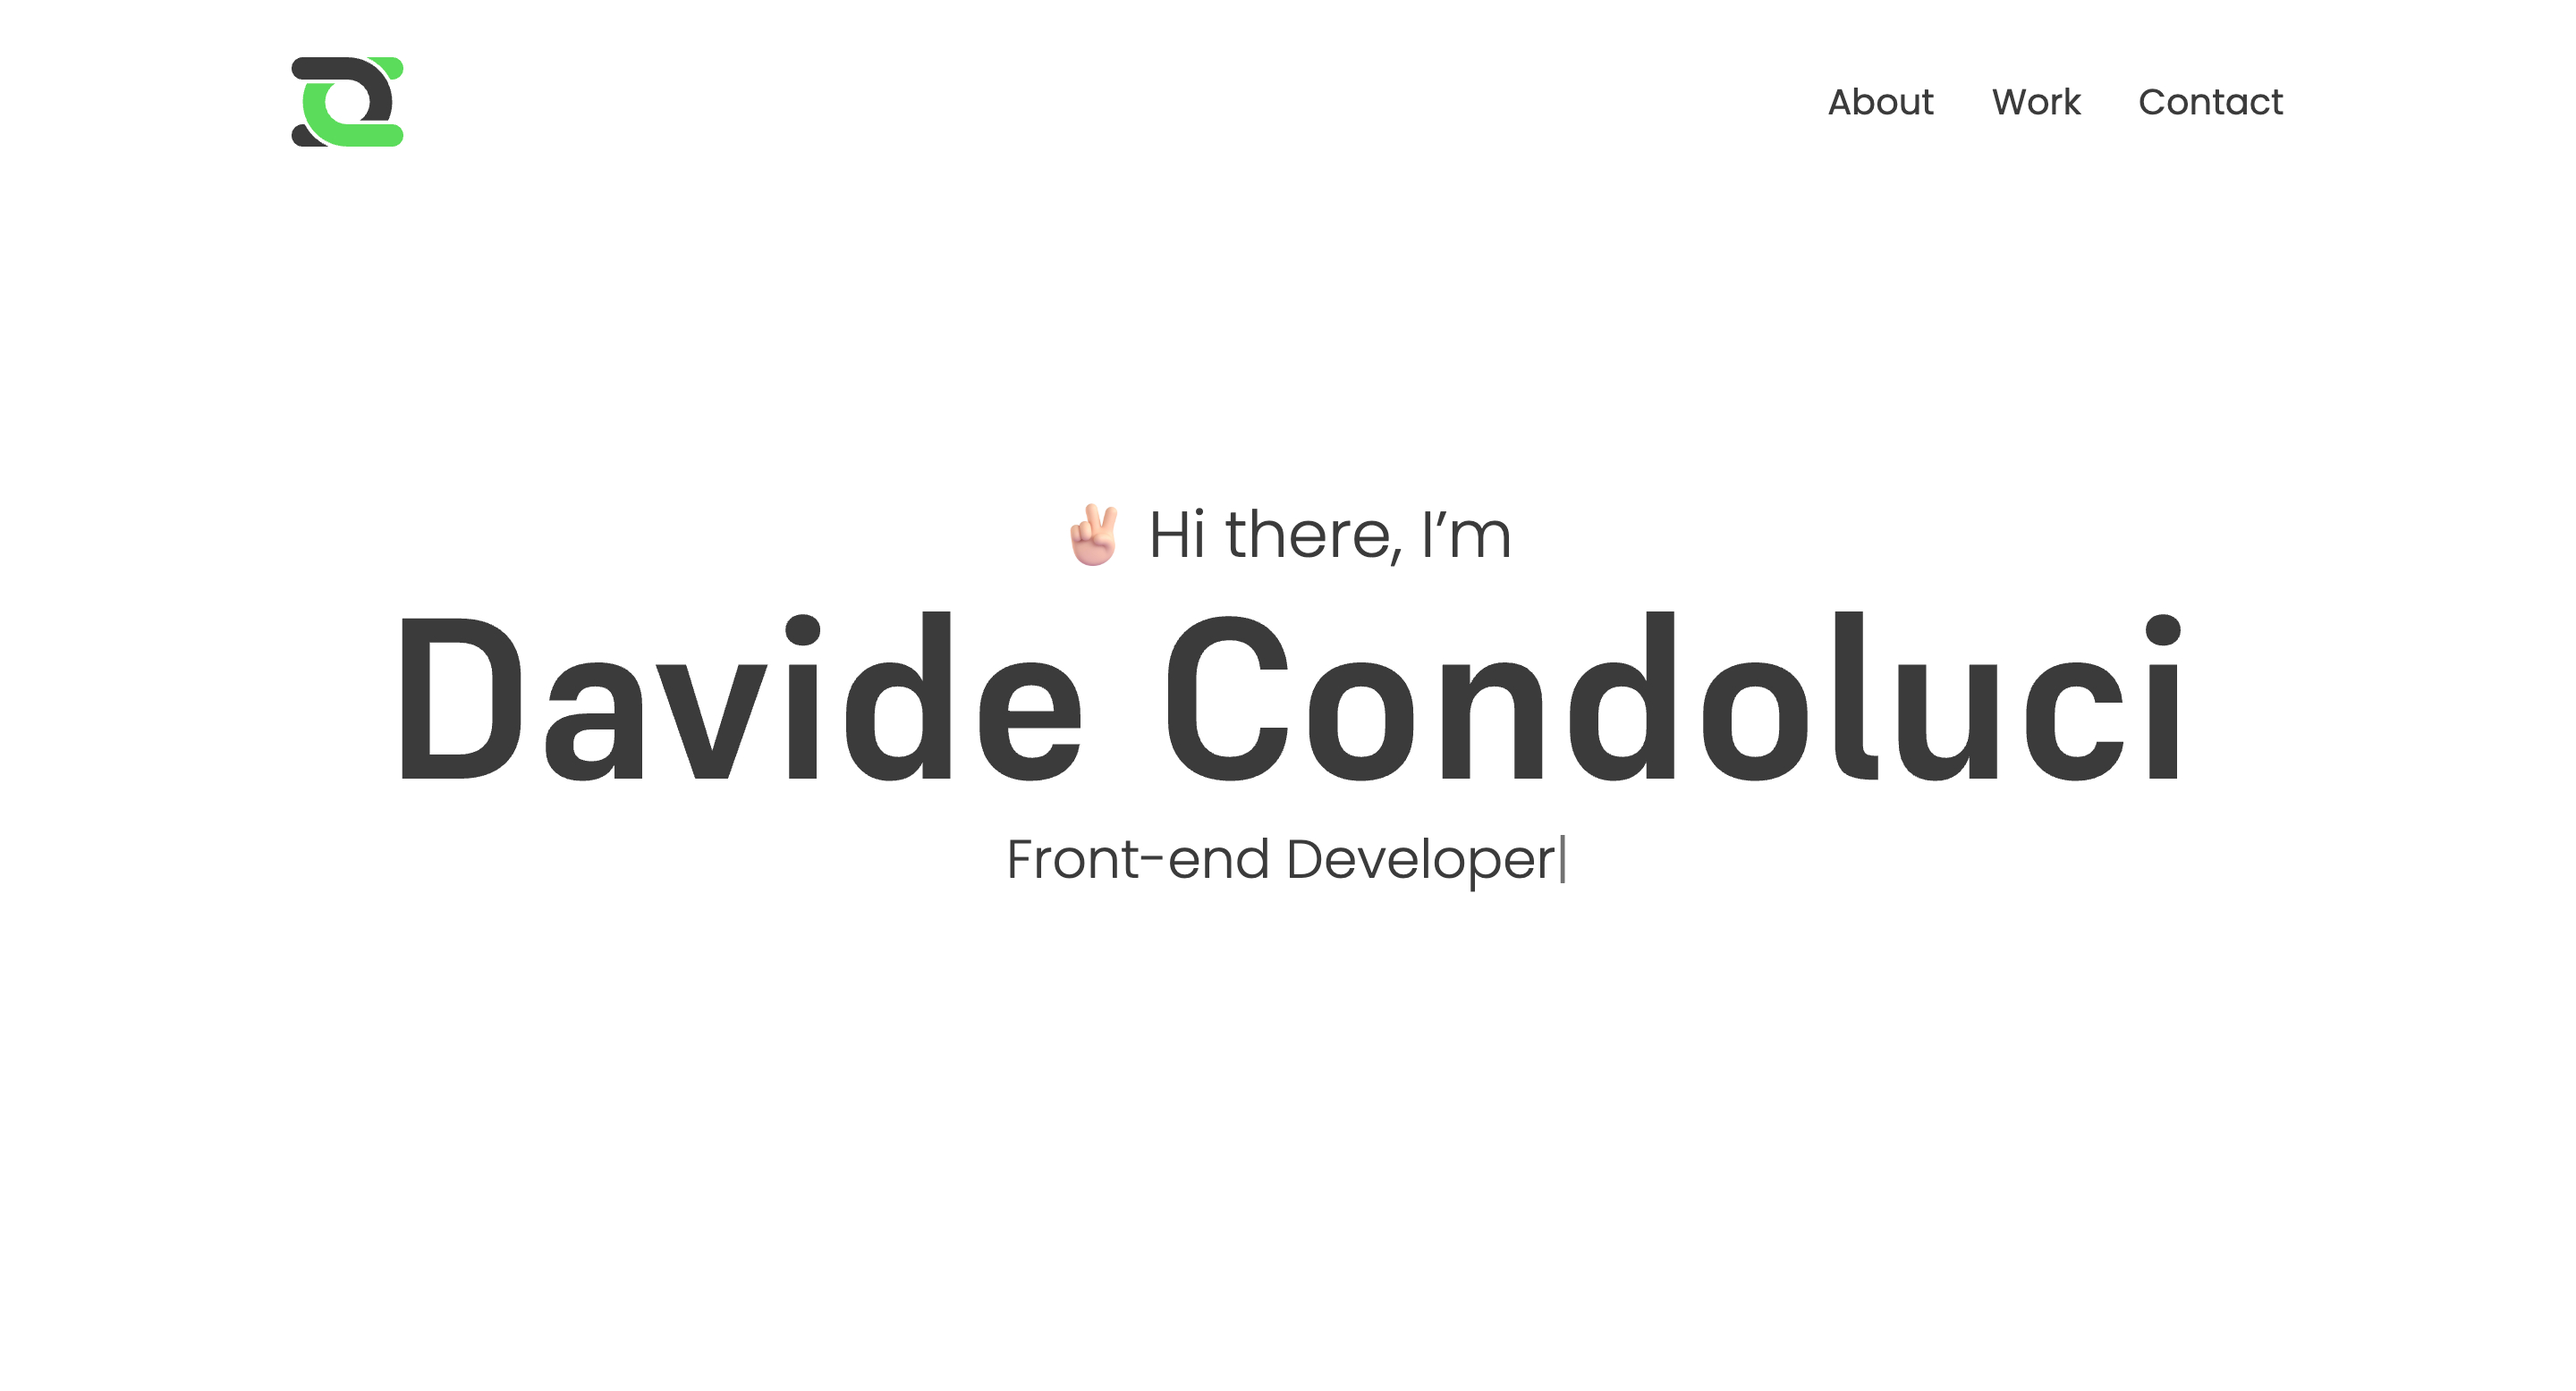
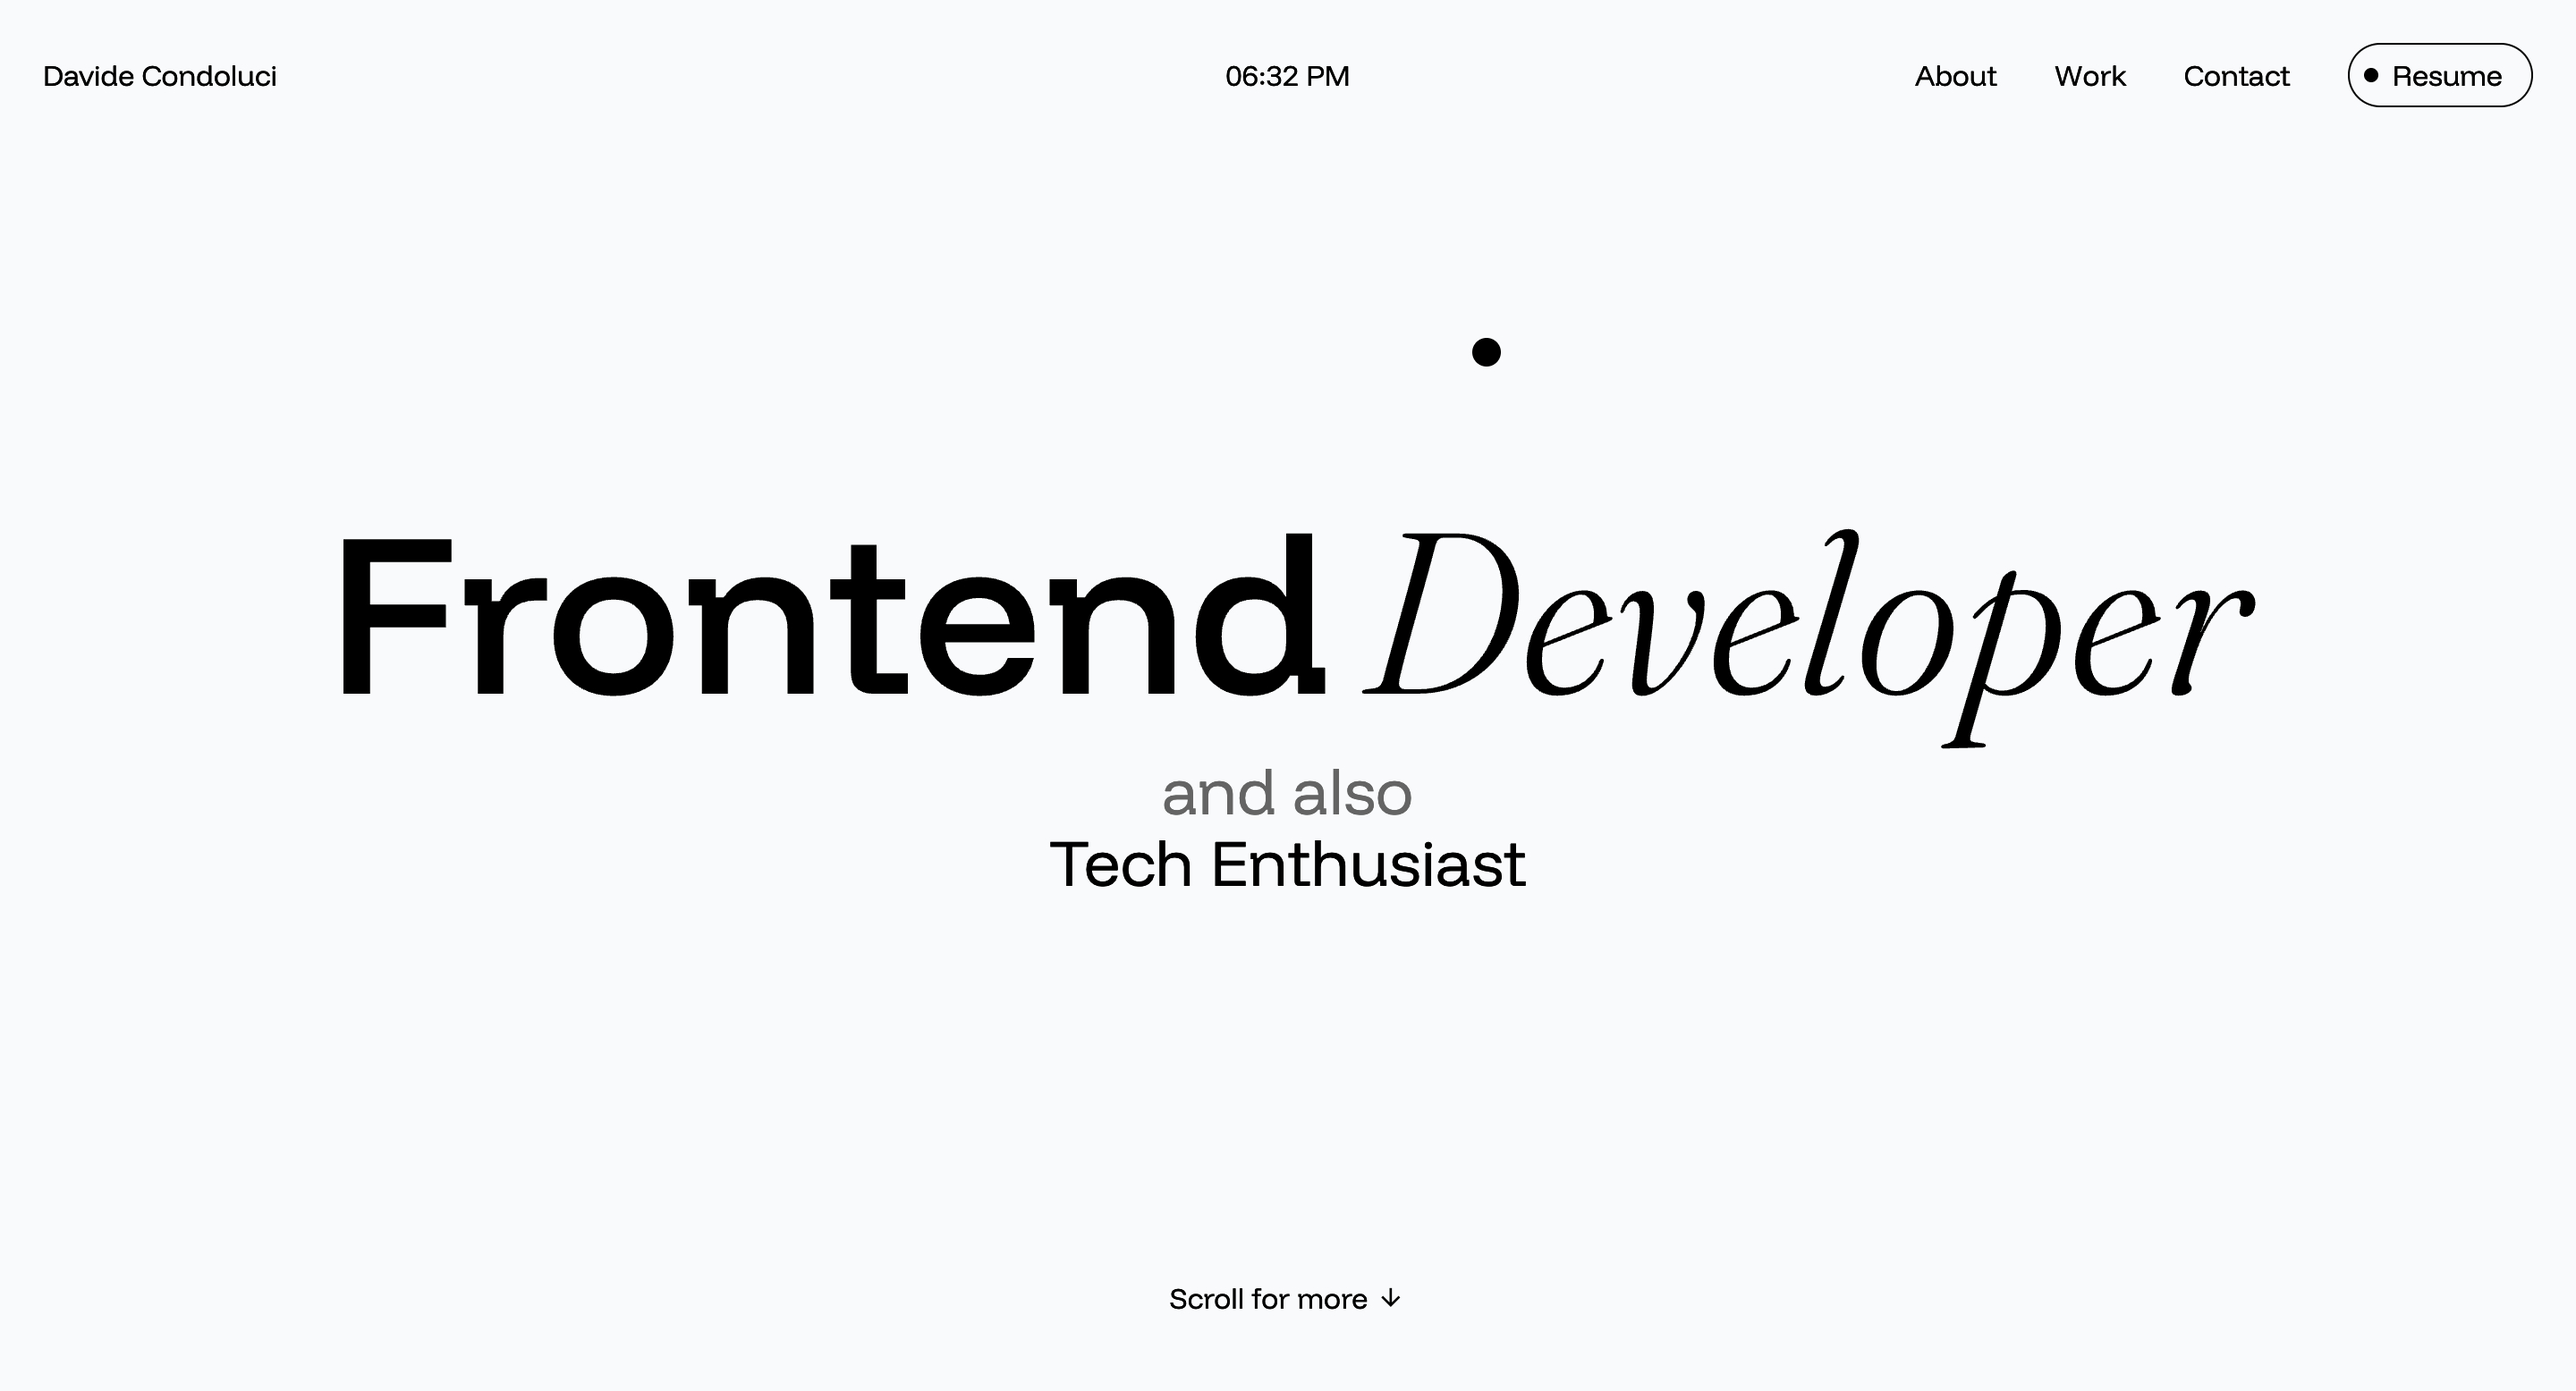
update readme & website img

diff --git a/README.md b/README.md
@@ -1,95 +1,90 @@
-# Davide Condoluci - Personal Website  
+# davidecondoluci.com
 
-![Website Screenshot](public/img/davidecondoluci.com.jpg)  
+Personal portfolio website — built with React, Vite, and Tailwind CSS.
 
-## 📌 Overview  
-This is my personal portfolio website, showcasing my projects, skills, and professional background. Built with modern web technologies, it serves as my digital hub for work and contact.  
+🔗 **Live:** [https://davidecondoluci.com](https://davidecondoluci.com)
 
-🔗 **Live Site:** [https://davidecondoluci.com](https://davidecondoluci.com)  
+![davidecondoluci.com preview](public/img/davidecondoluci.com.jpg)
 
-## 🛠 Technologies Used  
-- **Frontend:** React, JavaScript, HTML5, CSS3  
-- **Styling:** Tailwind CSS  
-- **Hosting:** Vercel  
-- **Tools:** ESLint, PostCSS  
+---
 
-## 🚀 Features  
-- ✅ Responsive design (mobile-friendly)
-- ✅ About Me section
-- ✅ Interactive project showcase
-- ✅ Contact form
-- ✅ Dynamic components (e.g., animated effects)
+## Tech Stack
 
-## 📂 Project Structure  
-```bash
-DAVIDECONDOLUCI.COM/
-├── public/                  # Static files (HTML, images, PDFs)
-│   ├── img/                 # Images
-│   │   ├── covers/          # Project/blog covers
-│   │   ├── icons/           # Icons (SVG, favicon)
-│   │   └── screens/         # Project screenshots
-│   ├── pdf/                 # PDF documents (CV, portfolio)
-│   └── index.html           # HTML entry point
+| Layer         | Technology                 |
+| ------------- | -------------------------- |
+| Framework     | React 18 + React Router v6 |
+| Build tool    | Vite                       |
+| Styling       | Tailwind CSS               |
+| Animations    | GSAP                       |
+| Smooth scroll | Lenis                      |
+| Icons         | Google                     |
+| Hosting       | Vercel                     |
+
+---
+
+## Project Structure
+
+```
+davidecondoluci.com/
+├── public/
+│   ├── img/
+│   │   ├── covers/          # Project cover images
+│   │   └── icons/           # Icons and favicon
+│   └── pdf/                 # CV and other documents
 │
-├── src/                     # Core source code
-│   ├── assets/fonts/        # Font files
-│   ├── components/          # Reusable React components
-│   │   ├── CodeEffect.jsx   # Dynamic text animations
-│   │   ├── Logo.jsx         # Logo component
-│   │   ├── Navbar.jsx       # Navigation bar
-│   │   └── Popup.jsx        # Modals/popups
-│   │
-│   ├── data/                # Structured data (JSON)
-│   │   ├── projects.json    # Projects list
-│   │   └── skills.json      # Skills/abilities
-│   │
-│   ├── pages/               # Main site pages
-│   │   ├── About.jsx        # About Me page
-│   │   ├── Contact.jsx      # Contact page
-│   │   ├── Home.jsx         # Homepage
-│   │   └── Work.jsx         # Projects page
-│   │
+├── src/
+│   ├── assets/fonts/        # Custom fonts
+│   ├── components/
+│   │   ├── FlipLink.jsx     # Animated flip-text link
+│   │   ├── Loader.jsx       # Page loader
+│   │   └── Navbar.jsx       # Navigation bar
+│   ├── data/
+│   │   └── projects.json    # Projects data
+│   ├── pages/
+│   │   ├── Hero.jsx         # Landing / hero section
+│   │   ├── About.jsx        # About me
+│   │   ├── Work.jsx         # Projects showcase
+│   │   └── Contact.jsx      # Contact section
+│   ├── App.jsx              # Root component & routing
 │   ├── App.css              # Global styles
-│   ├── App.jsx              # Root component
-│   └── main.jsx             # React rendering
+│   └── main.jsx             # React entry point
 │
-├── .vscode/                 # IDE configurations
-├── node_modules/            # npm dependencies
-├── .eslintrc.cjs            # ESLint config
-├── .gitignore               # Git ignored files
-├── package.json             # Dependencies and scripts
-├── package-lock.json        # Dependency versions
-├── postcss.config.js        # PostCSS config
-├── tailwind.config.js       # Tailwind config
-├── vercel.json              # Vercel deployment config
-└── README.md                # Project documentation
+├── index.html
+├── vite.config.js
+├── tailwind.config.js
+├── postcss.config.js
+├── vercel.json
+└── package.json
 ```
 
-## 🛠 Setup & Deployment  
-1. **Clone the repository:**  
-   ```bash
-   git clone https://github.com/your-username/davidecondoluci.com.git
-   ```
-2. **Install dependencies:**  
-   ```bash
-   npm install
-   ```
-3. **Run locally:**  
-   ```bash
-   npm run dev
-   ```
-4. **Deploy to Vercel:**  
-   - Push changes to `main` branch (Vercel auto-deploys).  
+---
 
-## 📬 Contact  
-Let’s connect!  
-- ✉ Email: [davide.condoluci1@gmail.com](mailto:davide.condoluci1@example.com)  
-- 💼 LinkedIn: [davide_condoluci](https://linkedin.com/in/davide_condoluci)  
-- 🌐 Website: [https://davidecondoluci.com](https://davidecondoluci.com)  
+## Getting Started
 
-## 📜 License  
-Open-source under the [MIT License](LICENSE).  
+```bash
+# Install dependencies
+npm install
 
---- 
+# Start dev server
+npm run dev
 
-⭐ **Star this repo if you find it useful!** Feedback is welcome.
+# Build for production
+npm run build
+
+# Preview production build
+npm run preview
+```
+
+---
+
+## Deployment
+
+The site is deployed on **Vercel**. Every push to the `main` branch triggers an automatic deployment.
+
+---
+
+## Contact
+
+- Email: [davide.condoluci1@gmail.com](mailto:davide.condoluci1@gmail.com)
+- LinkedIn: [linkedin.com/in/davide_condoluci](https://linkedin.com/in/davide_condoluci)
+- Website: [davidecondoluci.com](https://davidecondoluci.com)
